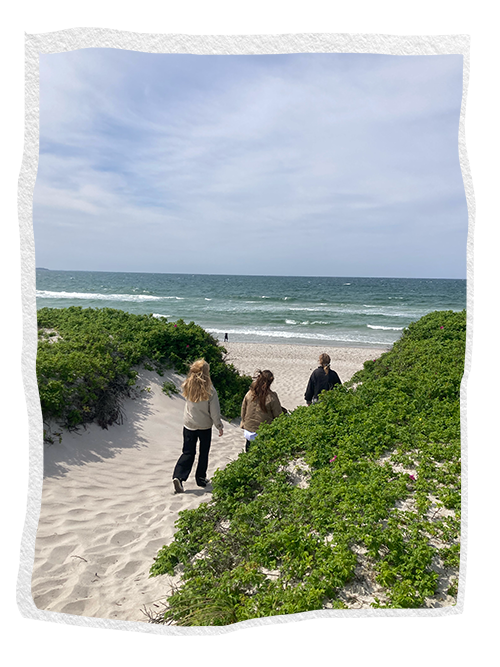
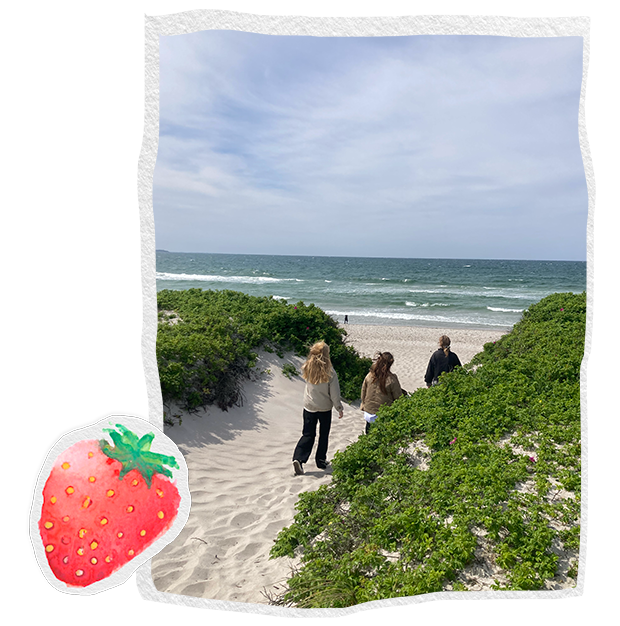
hej

diff --git a/omos.html b/omos.html
@@ -97,7 +97,7 @@
 
 <div class="container text-center">
   <div class="row align-items-start">
-    <div class="col-6 col-md-4 offset-md-3">
+    <div class="col-6 col-md-5 offset-md-2">
       <img src="img/omos/paastranden.png" alt="">
     </div>
     <div class="col-6 col-md-4">
